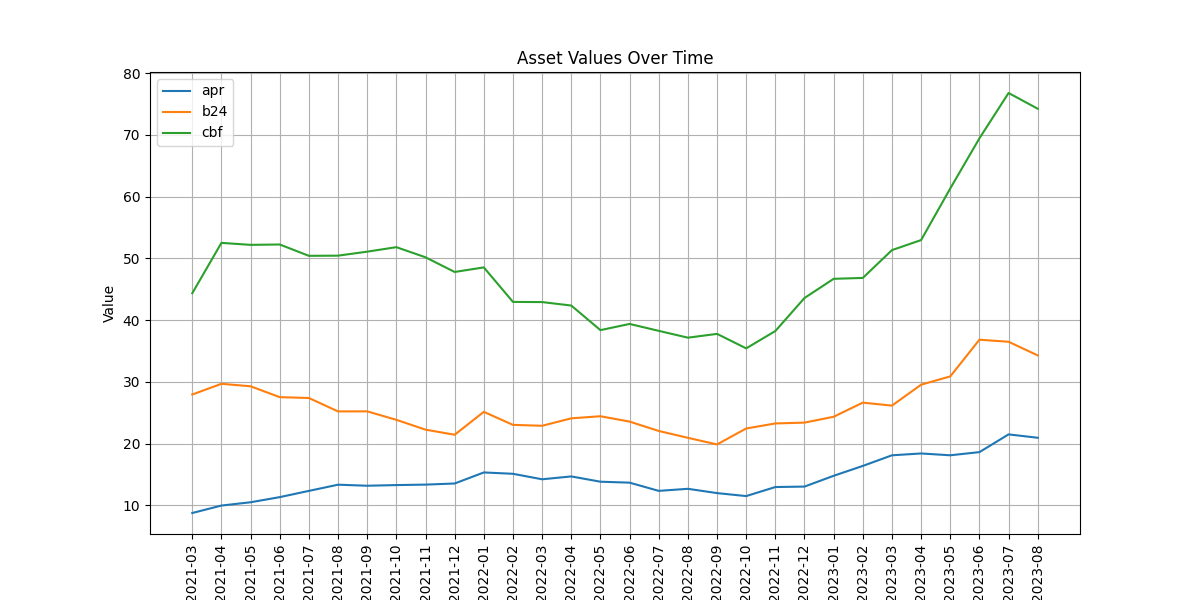
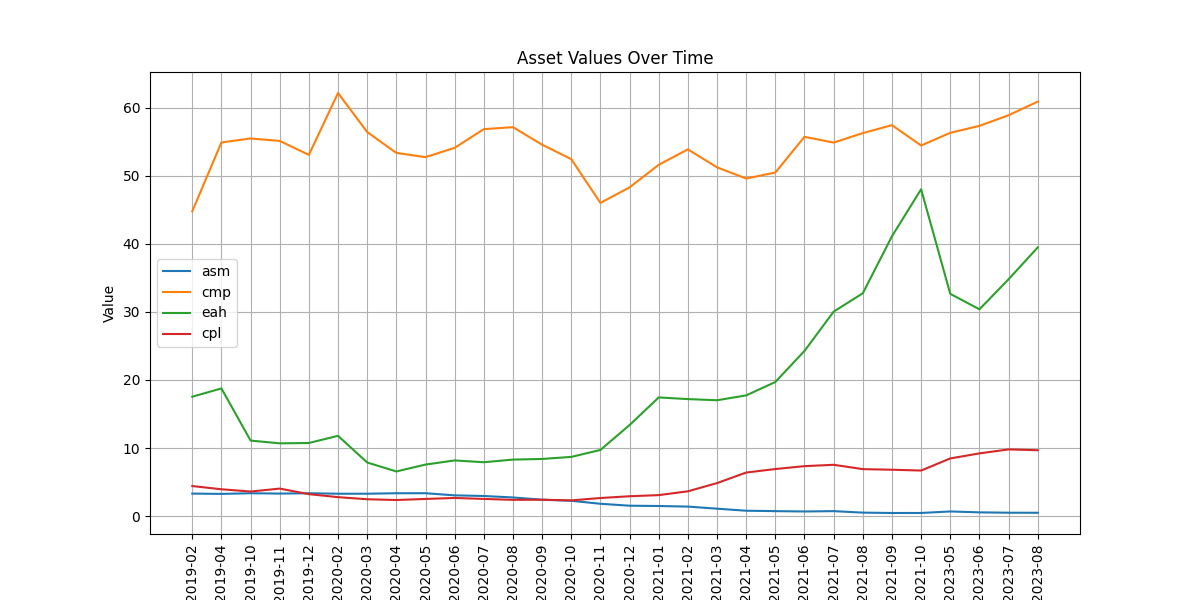
feat(routing): redirect to selected portfolio

diff --git a/templates/result.html b/templates/result.html
@@ -9,12 +9,12 @@
 </head>
 <body>
     <div class="container">
-        <form method="POST" id="portfolio-form">
+        <form method="POST" id="portfolio-form" action="/wallets/">
             {% csrf_token %}
             <label for="selected_assets">Choose portfolio:</label>
             <input type="text" id="portfolio_list" name="portfolio_list" list="portfolio-list" multiple>
             <datalist id="portfolio-list"></datalist>
-            <button type="button" id="view-portfolio">View portf</button>
+            <input type="submit" value="View portf">
         </form>
     </div>
 
@@ -40,6 +40,23 @@
 
     <script>
         $(document).ready(function() {
+            $('#portfolio-form').on('submit', function(event) {
+                var selectedPortfolio = $('#portfolio_list').val();
+    
+                // Sprawdź, czy coś zostało wybrane
+                if (!selectedPortfolio) {
+                    alert('Please choose a portfolio before viewing.');
+                    event.preventDefault();  // Zatrzymaj domyślną akcję przesyłania formularza
+                } else {
+                    // Dodaj nazwę portfela do adresu URL przed przesłaniem formularza
+                    var formAction = '/wallets/' + selectedPortfolio;
+                    $(this).attr('action', formAction);
+                }
+            });
+        });
+
+
+        $(document).ready(function() {
             var currentURL = window.location.href;
             var urlParts = currentURL.split('/');
             var walletName = urlParts[urlParts.length - 1];
@@ -57,7 +74,7 @@
                     });
                 },
                 error: function() {
-                    alert('Błąd podczas pobierania listy portfolio.');
+                    alert('Error while getting list of portfolios.');
                 }
             });
 
@@ -80,7 +97,7 @@
                     $('.result-details p').append(`max drawdown = ${maxDrawdown}%`);
                 },
                 error: function() {
-                    alert('Błąd podczas pobierania danych portfela.');
+                    alert('Error while getting portfolio.');
                 }
             });
         });

diff --git a/portfolio/views.py b/portfolio/views.py
@@ -46,28 +46,11 @@ def home(request):
     assets = Asset.objects.all()
     return render(request, 'form.html', {'assets': assets, 'asset_form': asset_form})
 
-# @api_view(['GET', 'POST'])
-# def edit(request):
-#     if request.method == 'GET':
-
 
 def result(request, name):
     """
     Displays the results of portfolio creation.
     """
-    # mark_output = request.session.get('mark_output')
-    # selected_asset_names = request.session.get('selected_asset_names')
-    # max_drawdown = request.session.get('max_drawdown')
-    # weights, parameters = [], []
-
-    # for asset_name in selected_asset_names:
-    #     weight_str = f"Weight for {asset_name} asset is {mark_output[asset_name]}"
-    #     weights.append(weight_str)
-
-    # exp_risk = mark_output.get("exp_risk", 0)
-    # exp_ret = mark_output.get("exp_ret", 0)
-    # parameters = f"Risk for this portfolio is {exp_risk:.2f}%\nExpected return of this portfolio is {exp_ret:.2f}%"
-
     return render(request, 'result.html')
 
 
